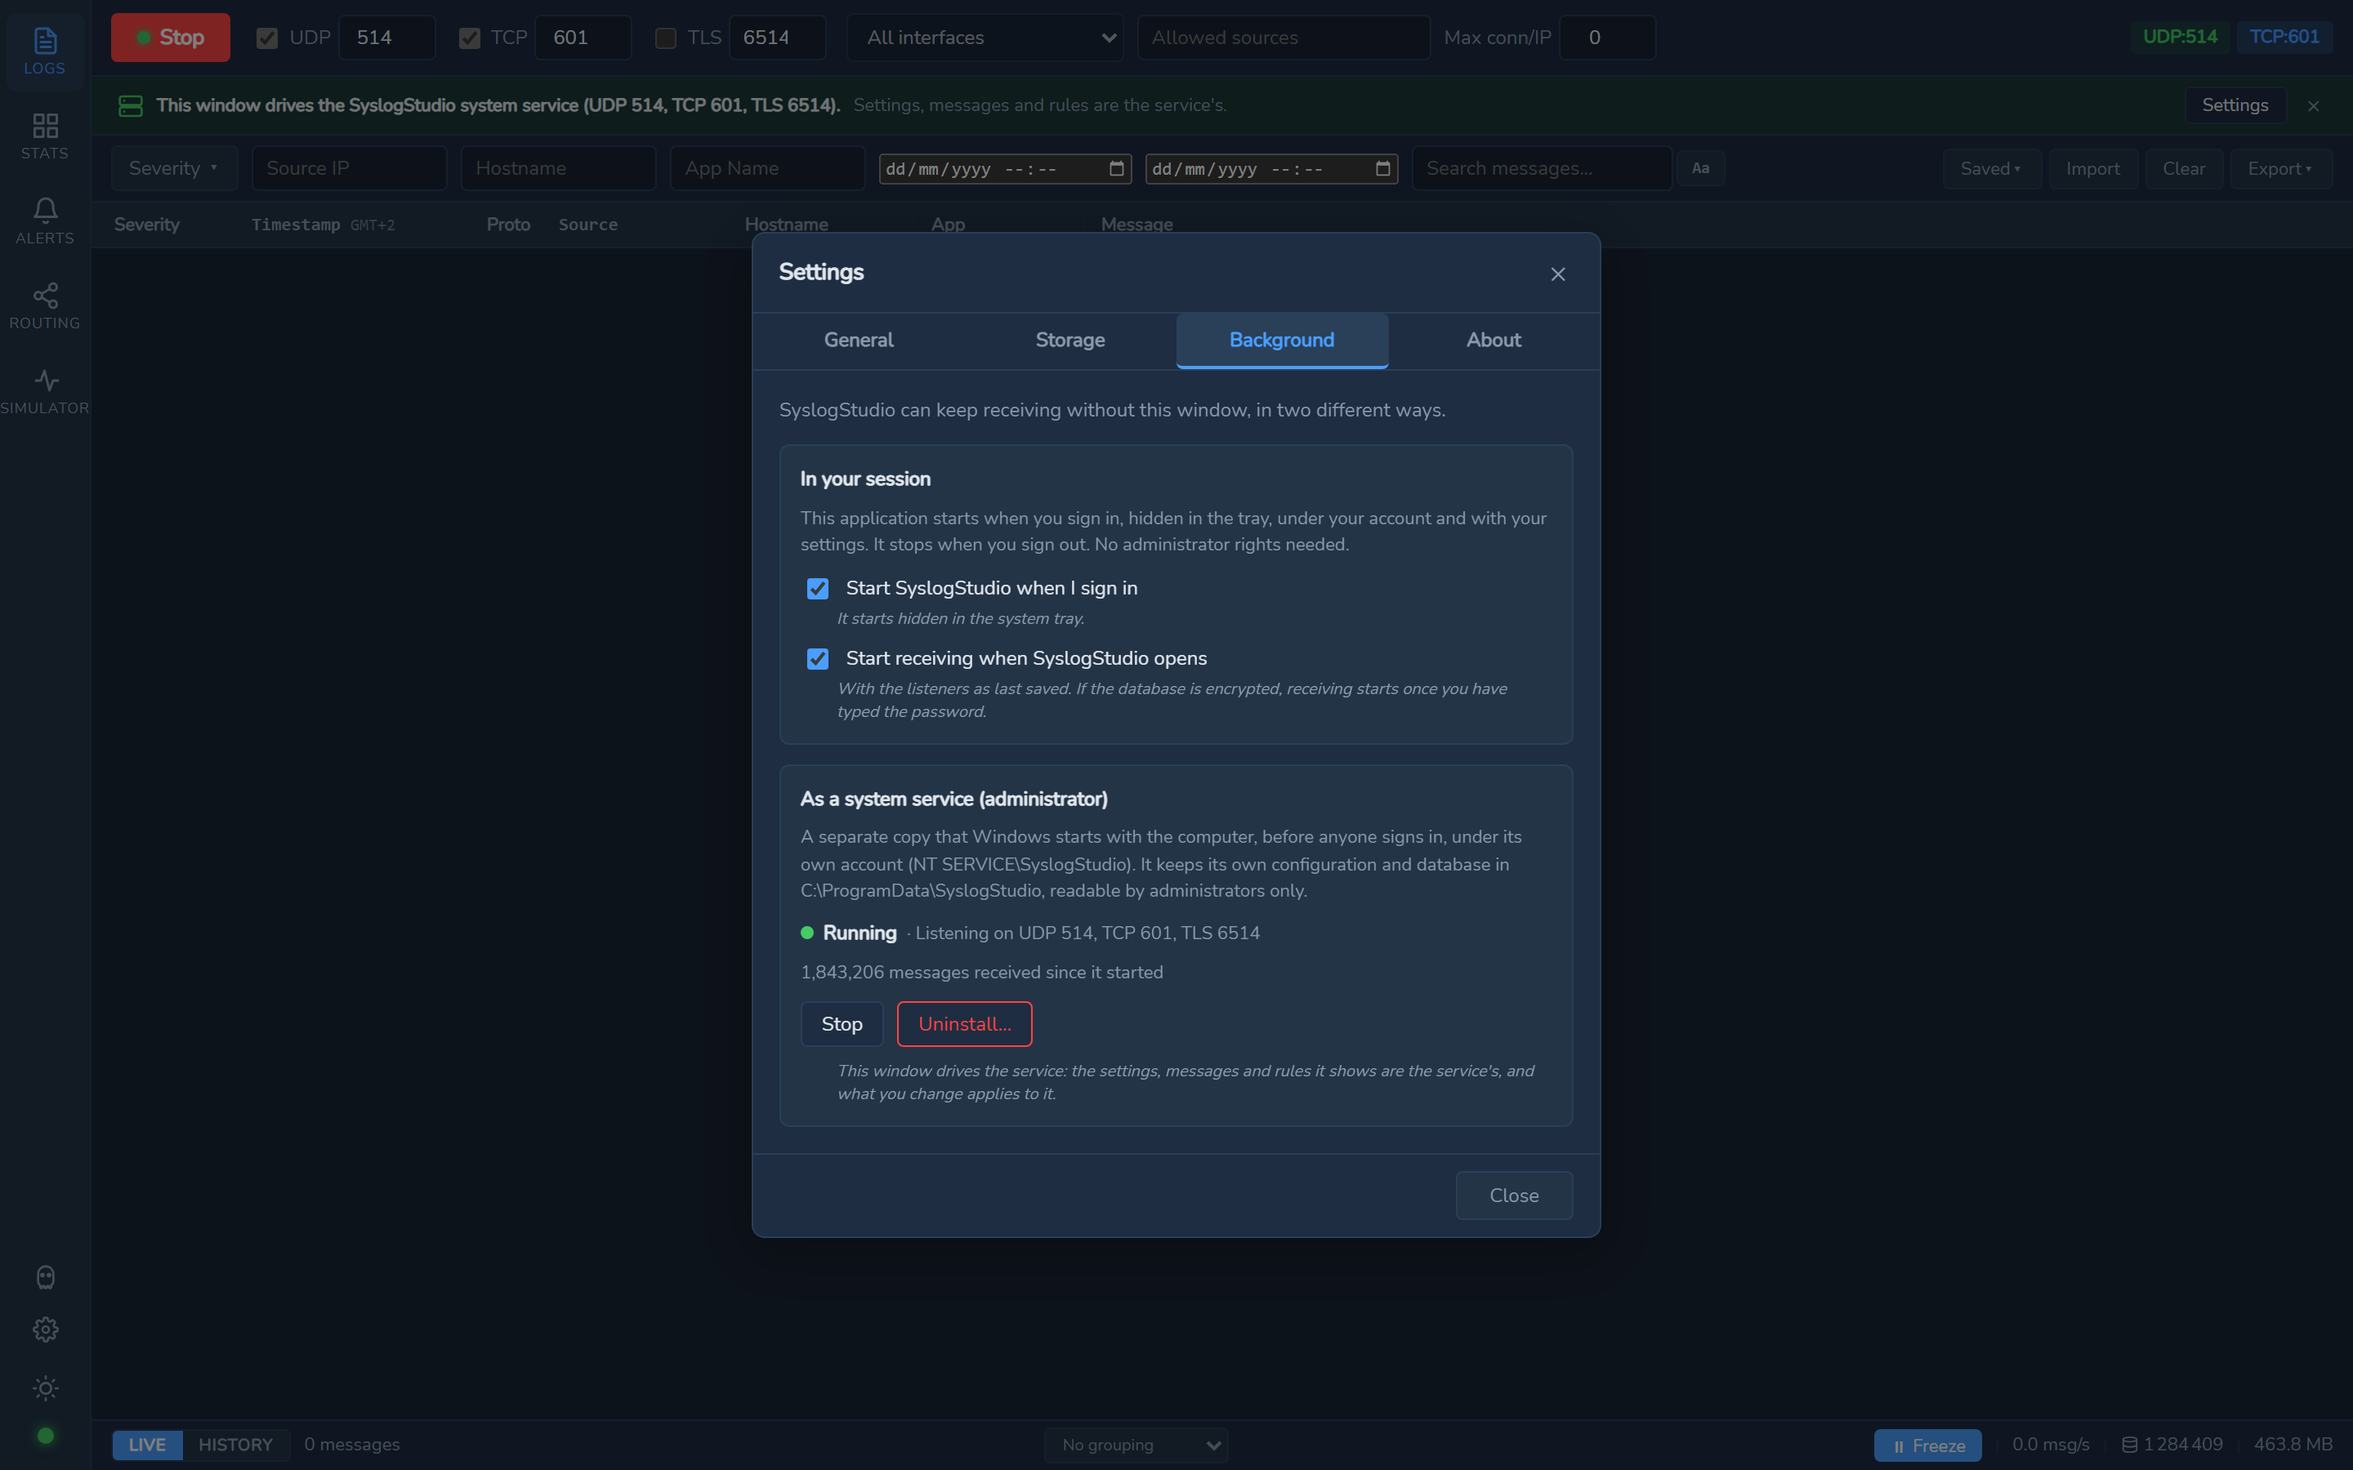
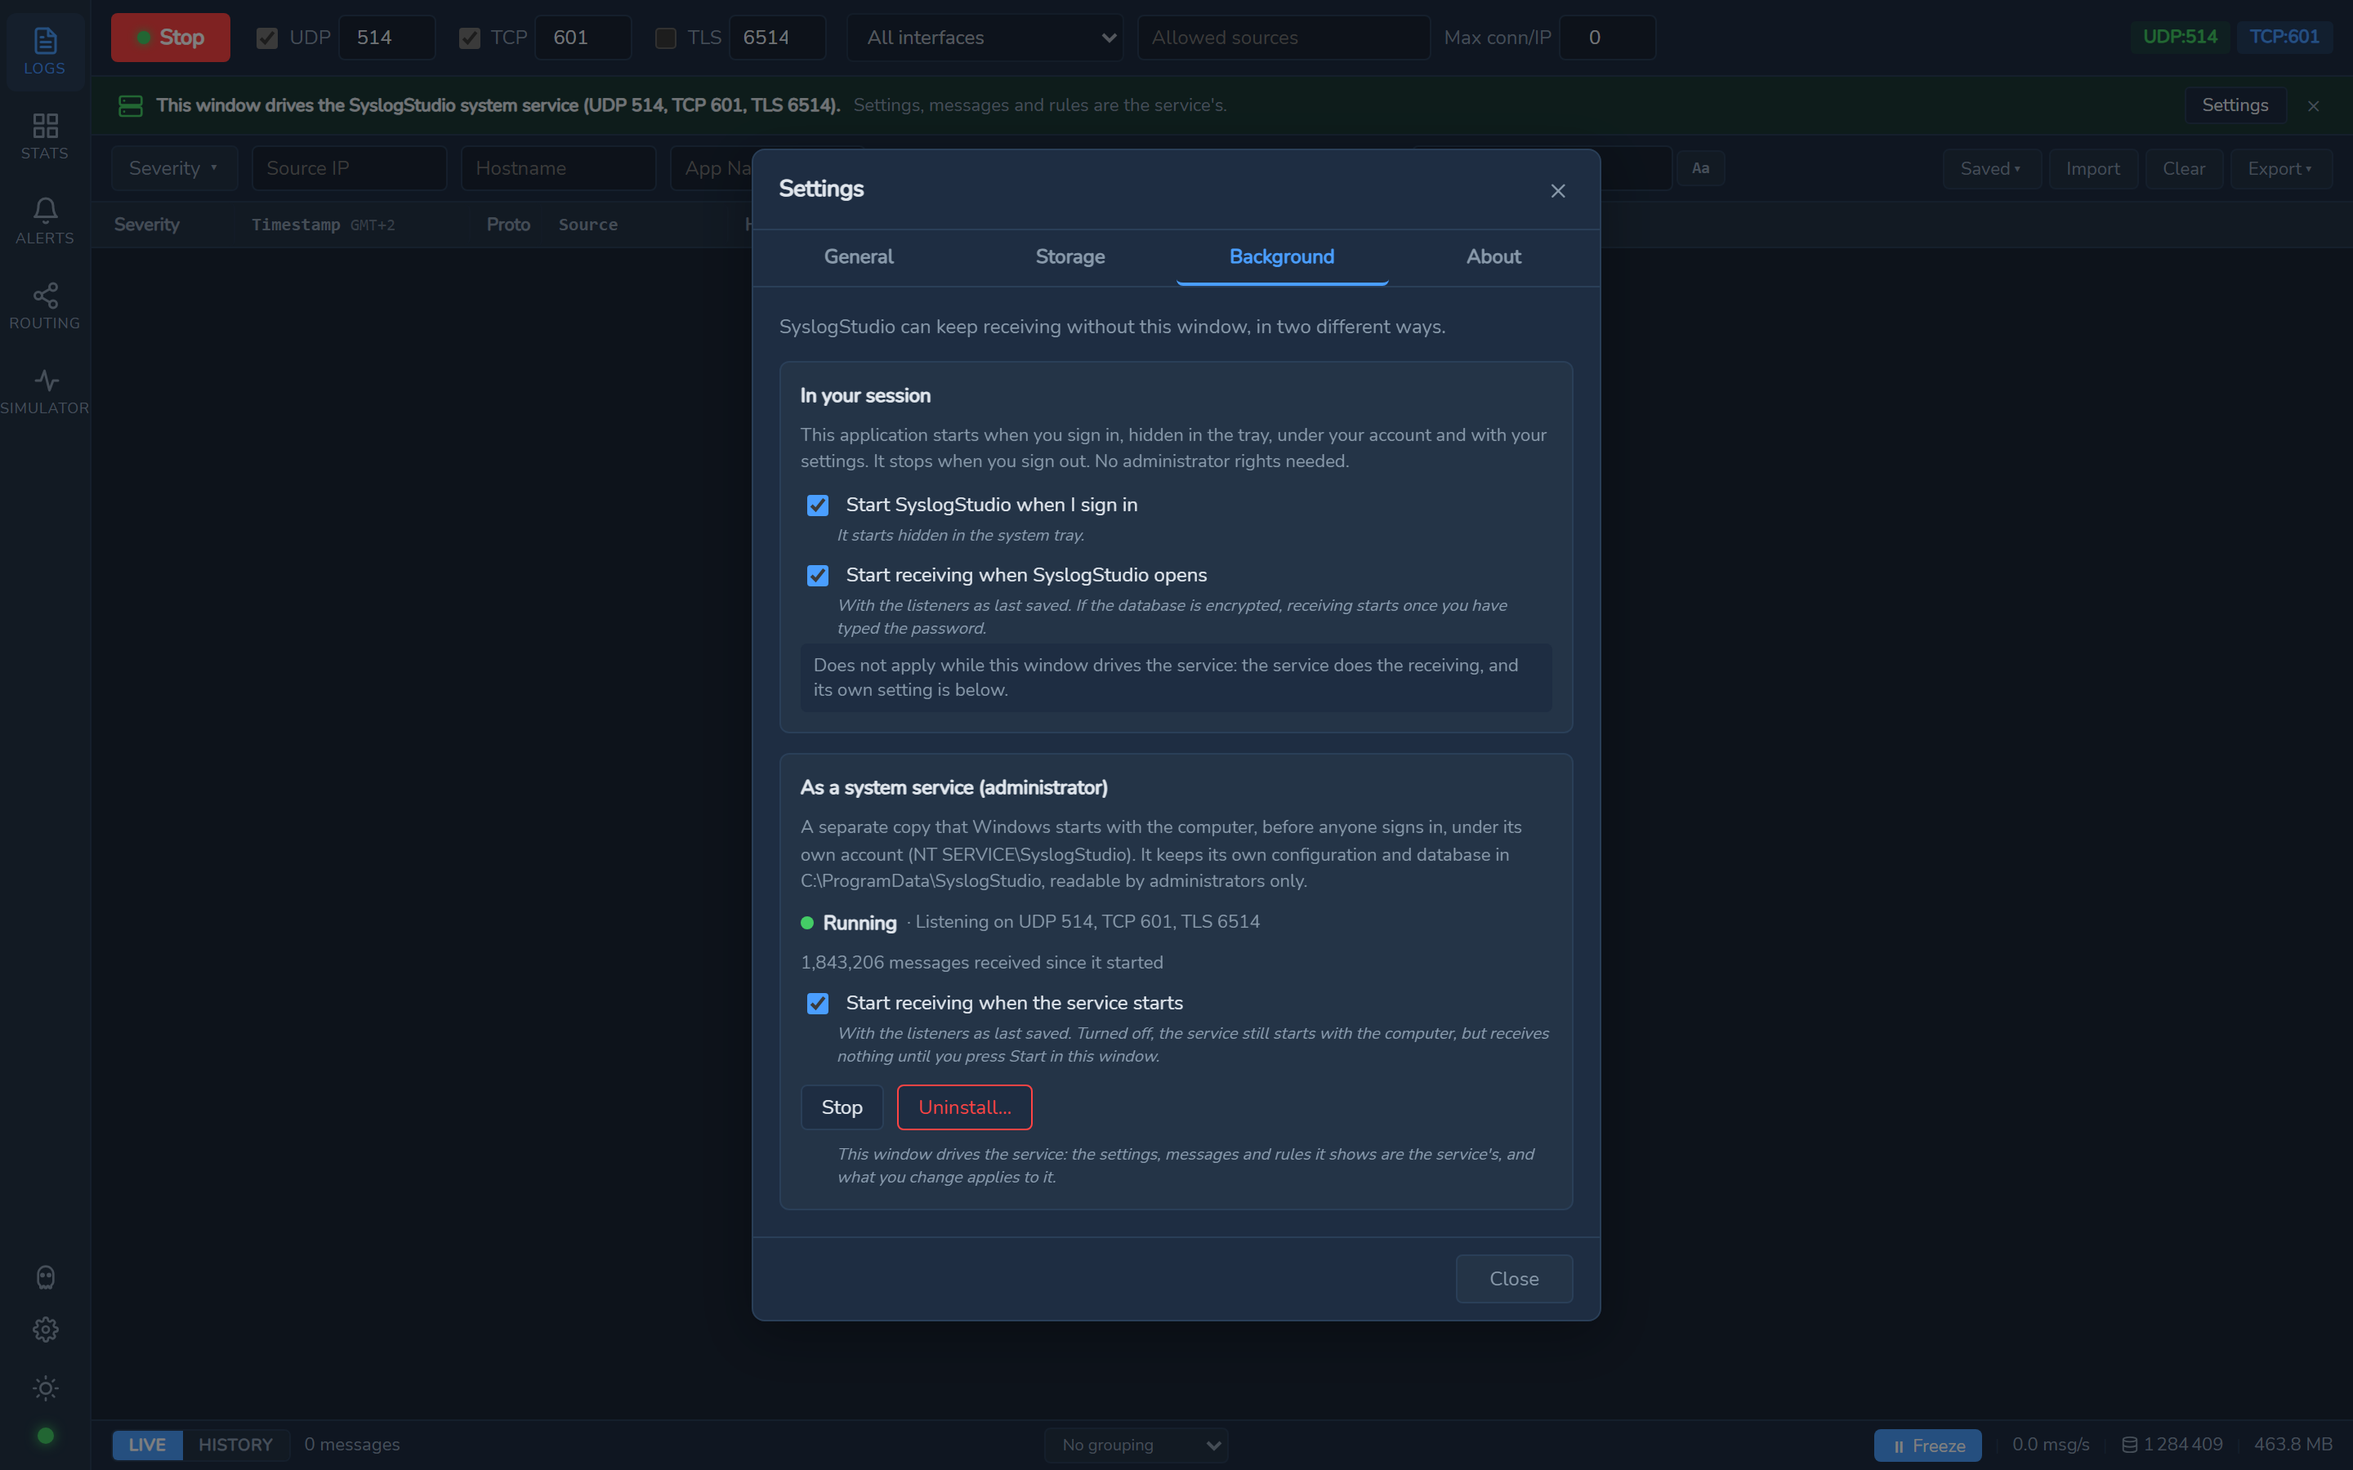
feat(service): choose whether the service starts receiving when it starts
Stop in a window driving the service is a pause. At its next start, at
boot for instance, the service listened again as last saved, and nothing
let the user decide otherwise.

Settings > Background now shows "Start receiving when the service starts"
while the window drives the service. It is on by default. When it is off,
the service still starts with the computer (pipe, database, rules), but its
listeners wait for a window to press Start. The setting lives in the
service's own config.json. When unset it means on, so a service installed
before this change keeps listening after the update.

A host that no window can reach ignores the setting and listens: nobody
could press Start. That covers --headless, and a service whose pipe did not
open.

- `service status` and the event log's start entry say when the service
  leaves its listeners to a window.
- The user-session option "Start receiving when SyslogStudio opens" now
  says it has no effect while the window drives the service. It only
  concerns the window's own receiver.
- README, user guide and Background screenshots updated.

diff --git a/frontend/src/components/BackgroundSettings.svelte b/frontend/src/components/BackgroundSettings.svelte
@@ -17,7 +17,7 @@
     import {
         getBackgroundSettings, setLaunchAtLogin, setAutoStartListeners, isEncryptionEnabled,
         installSystemService, uninstallSystemService, startSystemService, stopSystemService,
-        allowServiceAccess, type BackgroundSettings,
+        allowServiceAccess, getListenOnStart, setListenOnStart, type BackgroundSettings,
     } from '../lib/api';
     import { systemService, refreshSystemService } from '../lib/systemService';
     import { serviceLink, refreshServiceLink } from '../lib/serviceLink';
@@ -50,6 +50,13 @@
         .map(l => `${l.protocol.toUpperCase()} ${l.port}`)
         .join(', ');
 
+    // The service's own "start receiving on start", which only a window
+    // driving it can read and change: it lives in the service's directory.
+    let listenOnStart = true;
+    $: if (driving) {
+        getListenOnStart().then(v => listenOnStart = v).catch(() => { /* keep */ });
+    }
+
     onMount(load);
 
     async function load() {
@@ -77,6 +84,16 @@
         try {
             await setAutoStartListeners(enabled);
             if (settings) settings.autoStartListeners = enabled;
+        } catch (err) {
+            toastError(message(err));
+        }
+    }
+
+    async function onListenOnStart(e: Event) {
+        const enabled = (e.currentTarget as HTMLInputElement).checked;
+        try {
+            await setListenOnStart(enabled);
+            listenOnStart = enabled;
         } catch (err) {
             toastError(message(err));
         }
@@ -167,6 +184,9 @@
                 {$_('background.autoStart')}
             </label>
             <span class="hint">{$_('background.autoStartHint')}</span>
+            {#if driving}
+                <span class="note">{$_('background.autoStartDriving')}</span>
+            {/if}
         </div>
 
         {#if !settings.trayAvailable}
@@ -201,6 +221,16 @@
         {/if}
         {#if !svc.canInstall}
             <span class="note warn">{$_('background.mustBePerMachine')}</span>
+        {/if}
+
+        {#if driving}
+            <div class="field">
+                <label class="check">
+                    <input type="checkbox" checked={listenOnStart} on:change={onListenOnStart} />
+                    {$_('background.listenOnStart')}
+                </label>
+                <span class="hint">{$_('background.listenOnStartHint')}</span>
+            </div>
         {/if}
 
         <div class="actions">

diff --git a/frontend/src/lib/api.ts b/frontend/src/lib/api.ts
@@ -373,6 +373,7 @@ export interface HostStatus {
     listeners: HostListener[] | null;
     messages: number;
     windows: number;
+    listenOnStart: boolean;
     error?: string;
 }
 export interface SystemServiceInfo {
@@ -400,6 +401,11 @@ export const installSystemService = (): Promise<void> => callGo('InstallSystemSe
 export const uninstallSystemService = (purge: boolean): Promise<void> => callGo('UninstallSystemService', purge);
 export const startSystemService = (): Promise<void> => callGo('StartSystemService');
 export const stopSystemService = (): Promise<void> => callGo('StopSystemService');
+// Whether the service starts its listeners when it starts, or leaves them for
+// a window to start. Read and written on the engine this window drives: the
+// service's, while it drives it.
+export const getListenOnStart = (): Promise<boolean> => callGo('GetListenOnStart');
+export const setListenOnStart = (enabled: boolean): Promise<void> => callGo('SetListenOnStart', enabled);
 
 // Which engine this window drives: its own, or the system service's while it
 // runs. reason says why it drives its own although the service is installed:

diff --git a/frontend/screenshots/bridge/App.js b/frontend/screenshots/bridge/App.js
@@ -285,6 +285,8 @@ const HANDLERS = {
   StopSystemService: () => delayed('StopSystemService', null),
   GetServiceLink: () => Promise.resolve(clone(SERVICE_LINK)),
   AllowServiceAccess: () => delayed('AllowServiceAccess', null),
+  GetListenOnStart: () => Promise.resolve(true),
+  SetListenOnStart: () => Promise.resolve(null),
 
   // updates and shell
   GetAppVersion: () => Promise.resolve('v1.4.0'),
@@ -347,5 +349,5 @@ export const {
   DownloadAndApplyUpdate, OpenURL,
   GetBackgroundSettings, SetLaunchAtLogin, SetAutoStartListeners, GetAutoStartError, GetDataDirConflict,
   GetSystemService, InstallSystemService, UninstallSystemService, StartSystemService, StopSystemService,
-  GetServiceLink, AllowServiceAccess,
+  GetServiceLink, AllowServiceAccess, GetListenOnStart, SetListenOnStart,
 } = API;

diff --git a/frontend/wailsjs/go/main/App.d.ts b/frontend/wailsjs/go/main/App.d.ts
@@ -80,6 +80,8 @@ export function GetDefaultConfig():Promise<models.ServerConfig>;
 
 export function GetImportFormat():Promise<models.ImportFormat>;
 
+export function GetListenOnStart():Promise<boolean>;
+
 export function GetLocalIPs():Promise<Array<string>>;
 
 export function GetMessages(arg1:models.FilterCriteria):Promise<Array<models.SyslogMessage>>;
@@ -171,6 +173,8 @@ export function SetAutoStartListeners(arg1:boolean):Promise<void>;
 export function SetCloseAction(arg1:string):Promise<void>;
 
 export function SetLaunchAtLogin(arg1:boolean):Promise<void>;
+
+export function SetListenOnStart(arg1:boolean):Promise<void>;
 
 export function SetStorageConfig(arg1:models.StorageConfig):Promise<void>;
 

diff --git a/frontend/wailsjs/go/main/App.js b/frontend/wailsjs/go/main/App.js
@@ -154,6 +154,10 @@ export function GetImportFormat() {
   return window['go']['main']['App']['GetImportFormat']();
 }
 
+export function GetListenOnStart() {
+  return window['go']['main']['App']['GetListenOnStart']();
+}
+
 export function GetLocalIPs() {
   return window['go']['main']['App']['GetLocalIPs']();
 }
@@ -336,6 +340,10 @@ export function SetCloseAction(arg1) {
 
 export function SetLaunchAtLogin(arg1) {
   return window['go']['main']['App']['SetLaunchAtLogin'](arg1);
+}
+
+export function SetListenOnStart(arg1) {
+  return window['go']['main']['App']['SetListenOnStart'](arg1);
 }
 
 export function SetStorageConfig(arg1) {

diff --git a/frontend/wailsjs/go/models.ts b/frontend/wailsjs/go/models.ts
@@ -300,6 +300,7 @@ export namespace models {
 	    listeners: HostListener[];
 	    messages: number;
 	    windows: number;
+	    listenOnStart: boolean;
 	    error?: string;
 	
 	    static createFrom(source: any = {}) {
@@ -317,6 +318,7 @@ export namespace models {
 	        this.listeners = this.convertValues(source["listeners"], HostListener);
 	        this.messages = source["messages"];
 	        this.windows = source["windows"];
+	        this.listenOnStart = source["listenOnStart"];
 	        this.error = source["error"];
 	    }
 	

diff --git a/frontend/screenshots/fixtures.js b/frontend/screenshots/fixtures.js
@@ -561,5 +561,6 @@ export const SYSTEM_SERVICE_RUNNING = {
     ],
     messages: 1843206,
     windows: 1,
+    listenOnStart: true,
   },
 };

diff --git a/internal/headless/control_test.go b/internal/headless/control_test.go
@@ -8,6 +8,7 @@ import (
 	"time"
 
 	"SyslogStudio/internal/remote"
+	"SyslogStudio/internal/storage"
 )
 
 // controlListener stands in for the service's pipe: what the host serves on
@@ -166,5 +167,60 @@ func TestHost_WithoutWindowsATakenPortIsFatal(t *testing.T) {
 	}
 	if st, _ := ReadStatus(dir); st.State != "failed" {
 		t.Fatalf("status: %+v", st)
+	}
+}
+
+// Listening on start turned off, from a window: the host starts, for its
+// windows, and its listeners wait for one to press Start.
+func TestHost_ListeningOnStartOffWaitsForAWindow(t *testing.T) {
+	dir := t.TempDir()
+	port := freeUDPPort(t)
+	configure(t, dir, port)
+	storage.NewConfigStoreAt(dir).SaveListenOnStart(false)
+
+	l := controlListener(t)
+	h, err := Start(Options{DataDir: dir, Version: "test", Control: l})
+	if err != nil {
+		t.Fatal(err)
+	}
+	defer h.Stop()
+	if h.eng.GetServerStatus().Running {
+		t.Fatal("listening although listening on start is off")
+	}
+	if st := h.Status(); st.State != "running" || st.Error != "" || st.ListenOnStart {
+		t.Fatalf("status: %+v", st)
+	}
+
+	c := connect(t, l)
+	if c.GetListenOnStart() {
+		t.Fatal("the window sees listening on start as on")
+	}
+	if err := c.StartServer(c.GetDefaultConfig()); err != nil {
+		t.Fatal(err)
+	}
+	if st := c.GetServerStatus(); !st.UDPRunning || st.Config.UDPPort != port {
+		t.Fatalf("after the window's Start: %+v", st)
+	}
+
+	c.SetListenOnStart(true)
+	h.refresh()
+	if !h.Status().ListenOnStart {
+		t.Fatal("the window turned listening on start back on; the status still says off")
+	}
+}
+
+// A host no window can reach has nobody to press Start: it listens anyway.
+func TestHost_WithoutWindowsListensRegardless(t *testing.T) {
+	dir := t.TempDir()
+	configure(t, dir, freeUDPPort(t))
+	storage.NewConfigStoreAt(dir).SaveListenOnStart(false)
+
+	h, err := Start(Options{DataDir: dir, Version: "test"})
+	if err != nil {
+		t.Fatal(err)
+	}
+	defer h.Stop()
+	if !h.eng.GetServerStatus().UDPRunning {
+		t.Fatal("a host nobody can drive waits for a window")
 	}
 }

diff --git a/internal/headless/host.go b/internal/headless/host.go
@@ -144,7 +144,11 @@ func (h *Host) start() error {
 		h.eng.Close()
 		return err
 	}
-	if err := h.eng.StartSaved(); err != nil {
+	// Listening waits for a window only on a host windows can reach: one
+	// nobody can drive would wait for ever.
+	if h.server != nil && !h.eng.GetListenOnStart() {
+		h.log.Info("listening on start is off; the listeners wait for a window to start them")
+	} else if err := h.eng.StartSaved(); err != nil {
 		if h.server == nil {
 			h.eng.Close()
 			return fmt.Errorf("start the listeners: %w", err)
@@ -255,8 +259,10 @@ func (h *Host) refresh() {
 	h.mu.Lock()
 	h.status.Listeners = listeners(st)
 	h.status.Messages = stats.TotalMessages
+	h.status.ListenOnStart = true
 	if h.server != nil {
 		h.status.Windows = h.server.Windows()
+		h.status.ListenOnStart = h.eng.GetListenOnStart()
 	}
 	h.mu.Unlock()
 	h.publish()

diff --git a/internal/engine/server.go b/internal/engine/server.go
@@ -107,6 +107,19 @@ func (e *Engine) SaveServerConfig(config models.ServerConfig) {
 	e.configStore.Save(config)
 }
 
+// GetListenOnStart reports whether this engine, run by a headless host — the
+// system service — starts its listeners when the host starts. Otherwise they
+// wait for a window to press Start. The desktop application's own engine has
+// its own choice, AutoStartListeners, kept with the window's preferences.
+func (e *Engine) GetListenOnStart() bool {
+	return e.configStore.LoadListenOnStart()
+}
+
+// SetListenOnStart records it, for the host's next start.
+func (e *Engine) SetListenOnStart(enabled bool) {
+	e.configStore.SaveListenOnStart(enabled)
+}
+
 func (e *Engine) GetDefaultConfig() models.ServerConfig {
 	return e.configStore.Load()
 }

diff --git a/internal/storage/config.go b/internal/storage/config.go
@@ -398,6 +398,24 @@ func (cs *ConfigStore) SaveBackground(p models.BackgroundPrefs) {
 	cs.saveAll(all)
 }
 
+// LoadListenOnStart reads whether a headless host starts its listeners when it
+// starts: yes unless told otherwise.
+func (cs *ConfigStore) LoadListenOnStart() bool {
+	cs.mu.Lock()
+	defer cs.mu.Unlock()
+	v := cs.loadAll().ListenOnStart
+	return v == nil || *v
+}
+
+// SaveListenOnStart writes it.
+func (cs *ConfigStore) SaveListenOnStart(enabled bool) {
+	cs.mu.Lock()
+	defer cs.mu.Unlock()
+	all := cs.loadAll()
+	all.ListenOnStart = &enabled
+	cs.saveAll(all)
+}
+
 // SaveUpdateConfig writes the update-check preferences.
 func (cs *ConfigStore) SaveUpdateConfig(cfg models.UpdateConfig) {
 	cs.mu.Lock()

diff --git a/internal/storage/config_test.go b/internal/storage/config_test.go
@@ -155,3 +155,21 @@ func TestConfigStore_EmptyDir(t *testing.T) {
 	}
 	cs.Save(cfg) // should not panic
 }
+
+// A service installed before the setting existed has none saved, and must keep
+// listening when it starts.
+func TestConfigStore_ListenOnStart(t *testing.T) {
+	dir := t.TempDir()
+	cs := &ConfigStore{dir: dir}
+	if !cs.LoadListenOnStart() {
+		t.Fatal("unset should mean listening on start")
+	}
+	cs.SaveListenOnStart(false)
+	if (&ConfigStore{dir: dir}).LoadListenOnStart() {
+		t.Fatal("turned off, then read back as on")
+	}
+	cs.SaveListenOnStart(true)
+	if !cs.LoadListenOnStart() {
+		t.Fatal("turned back on, then read as off")
+	}
+}
